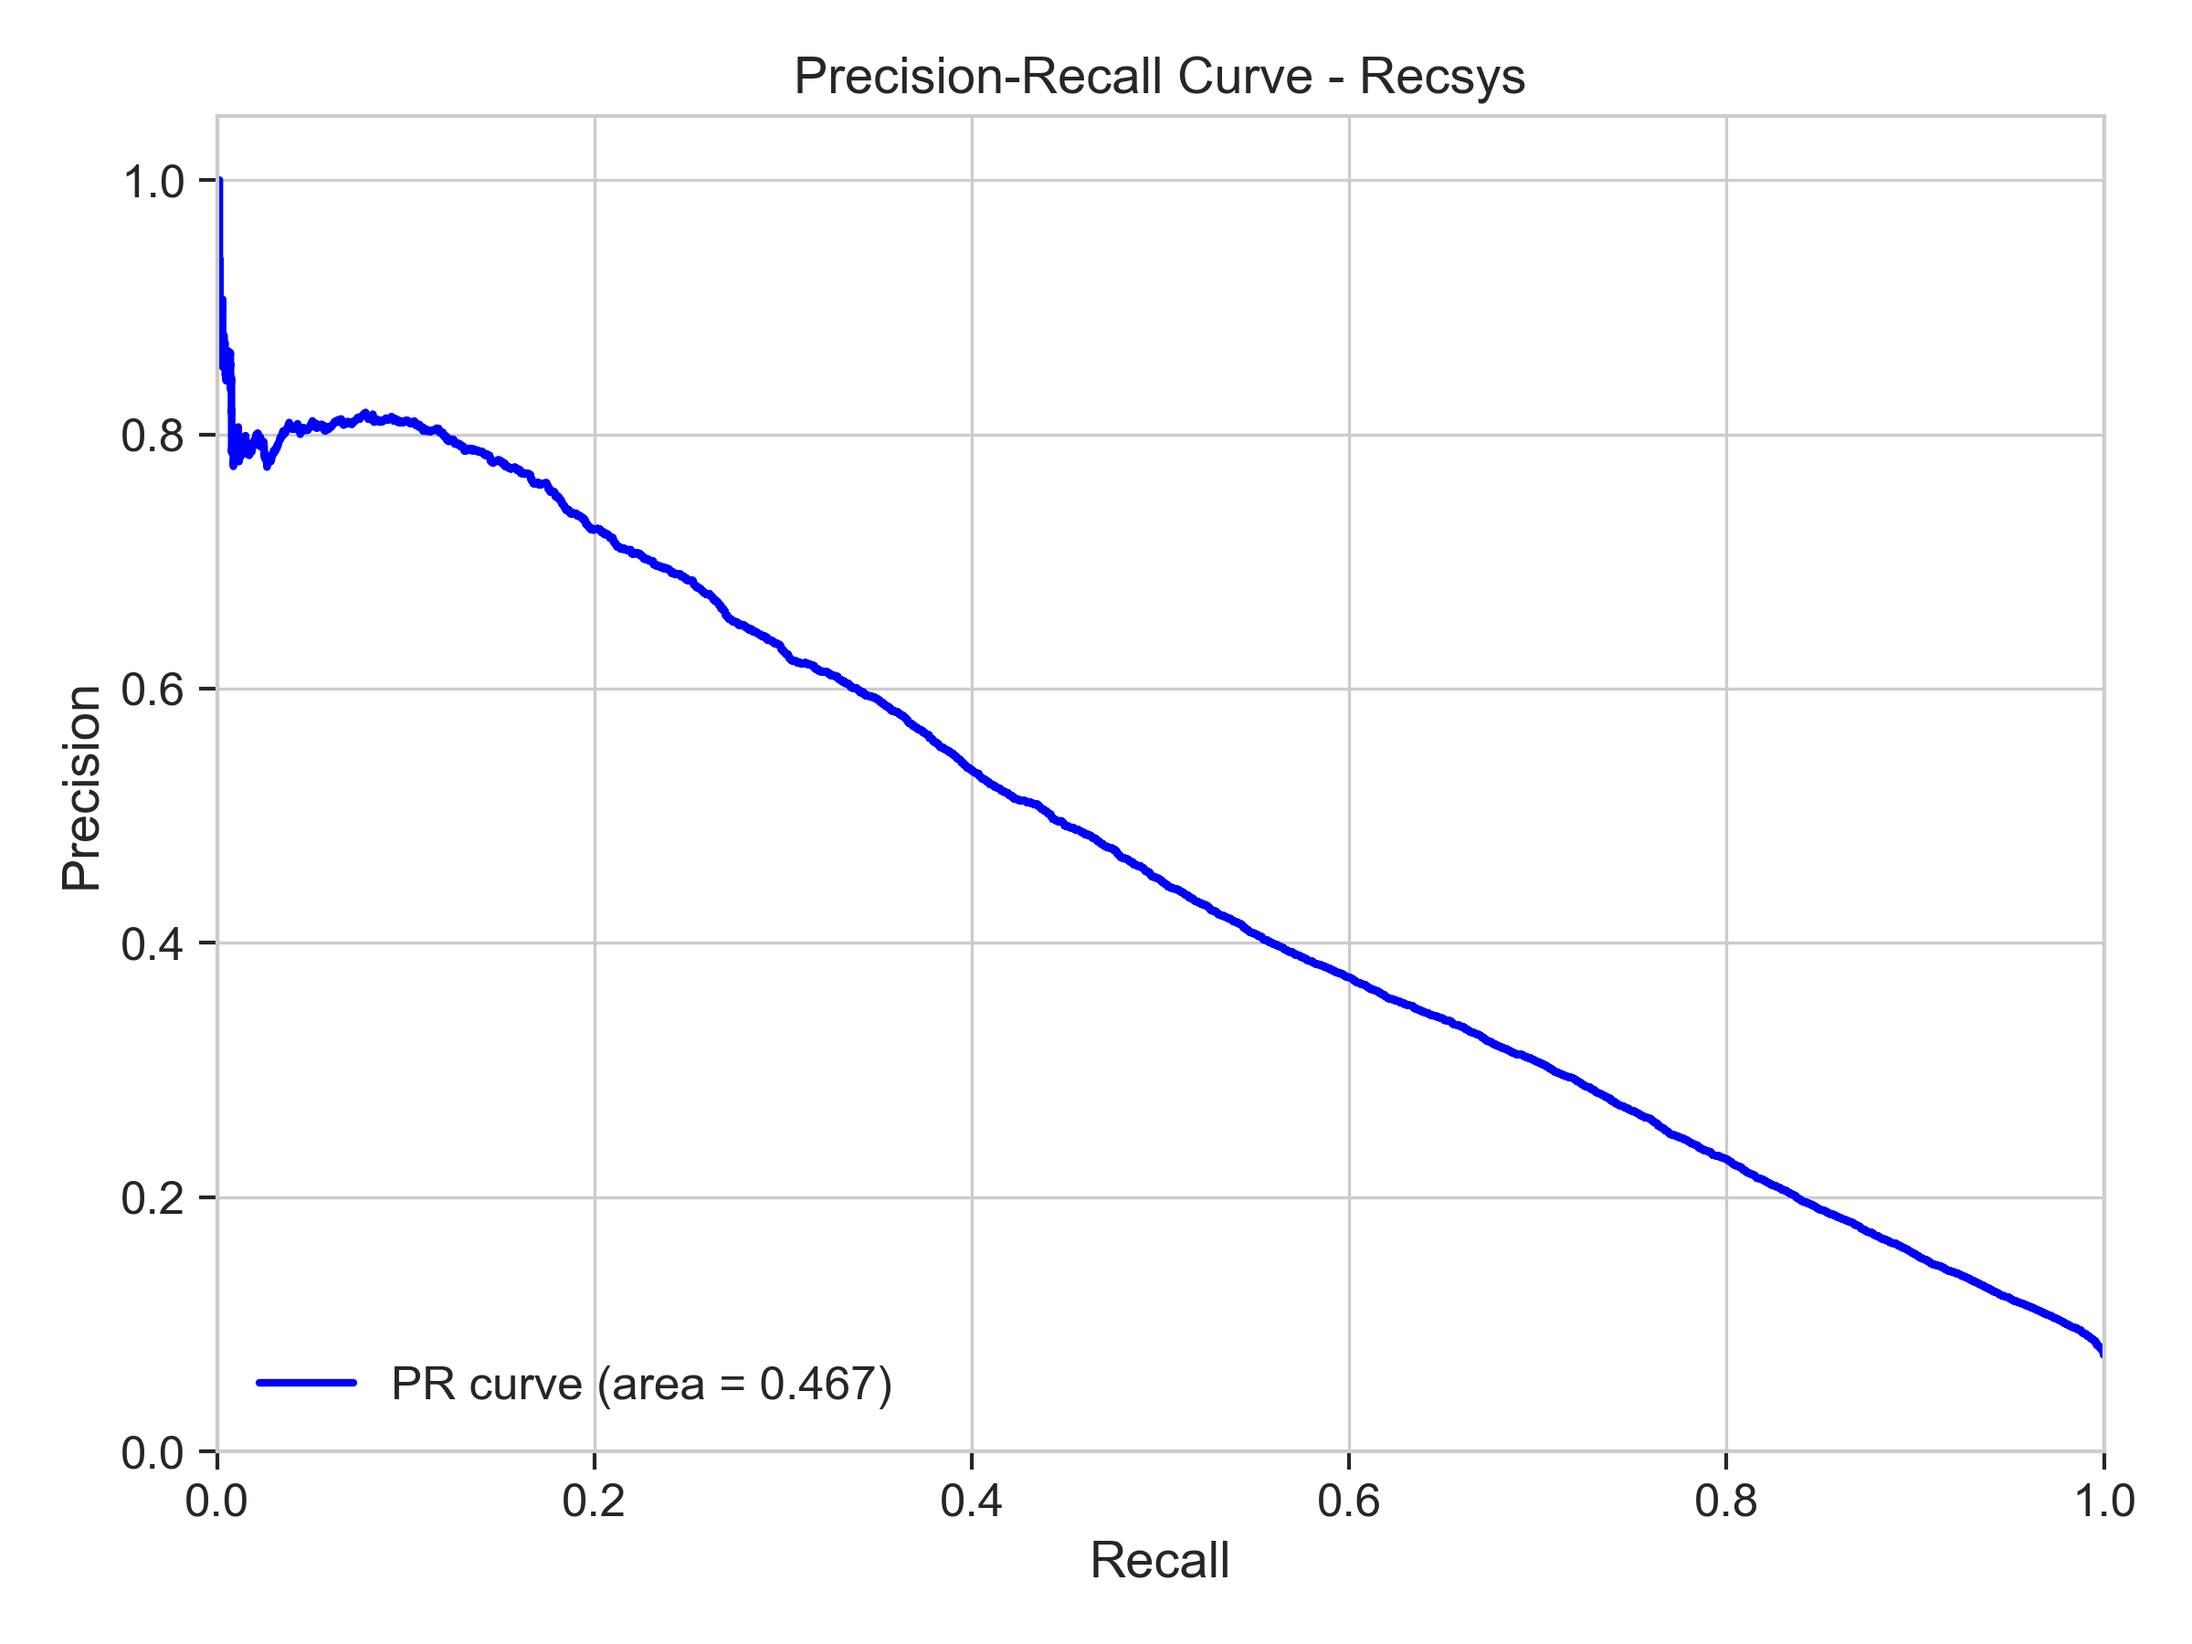
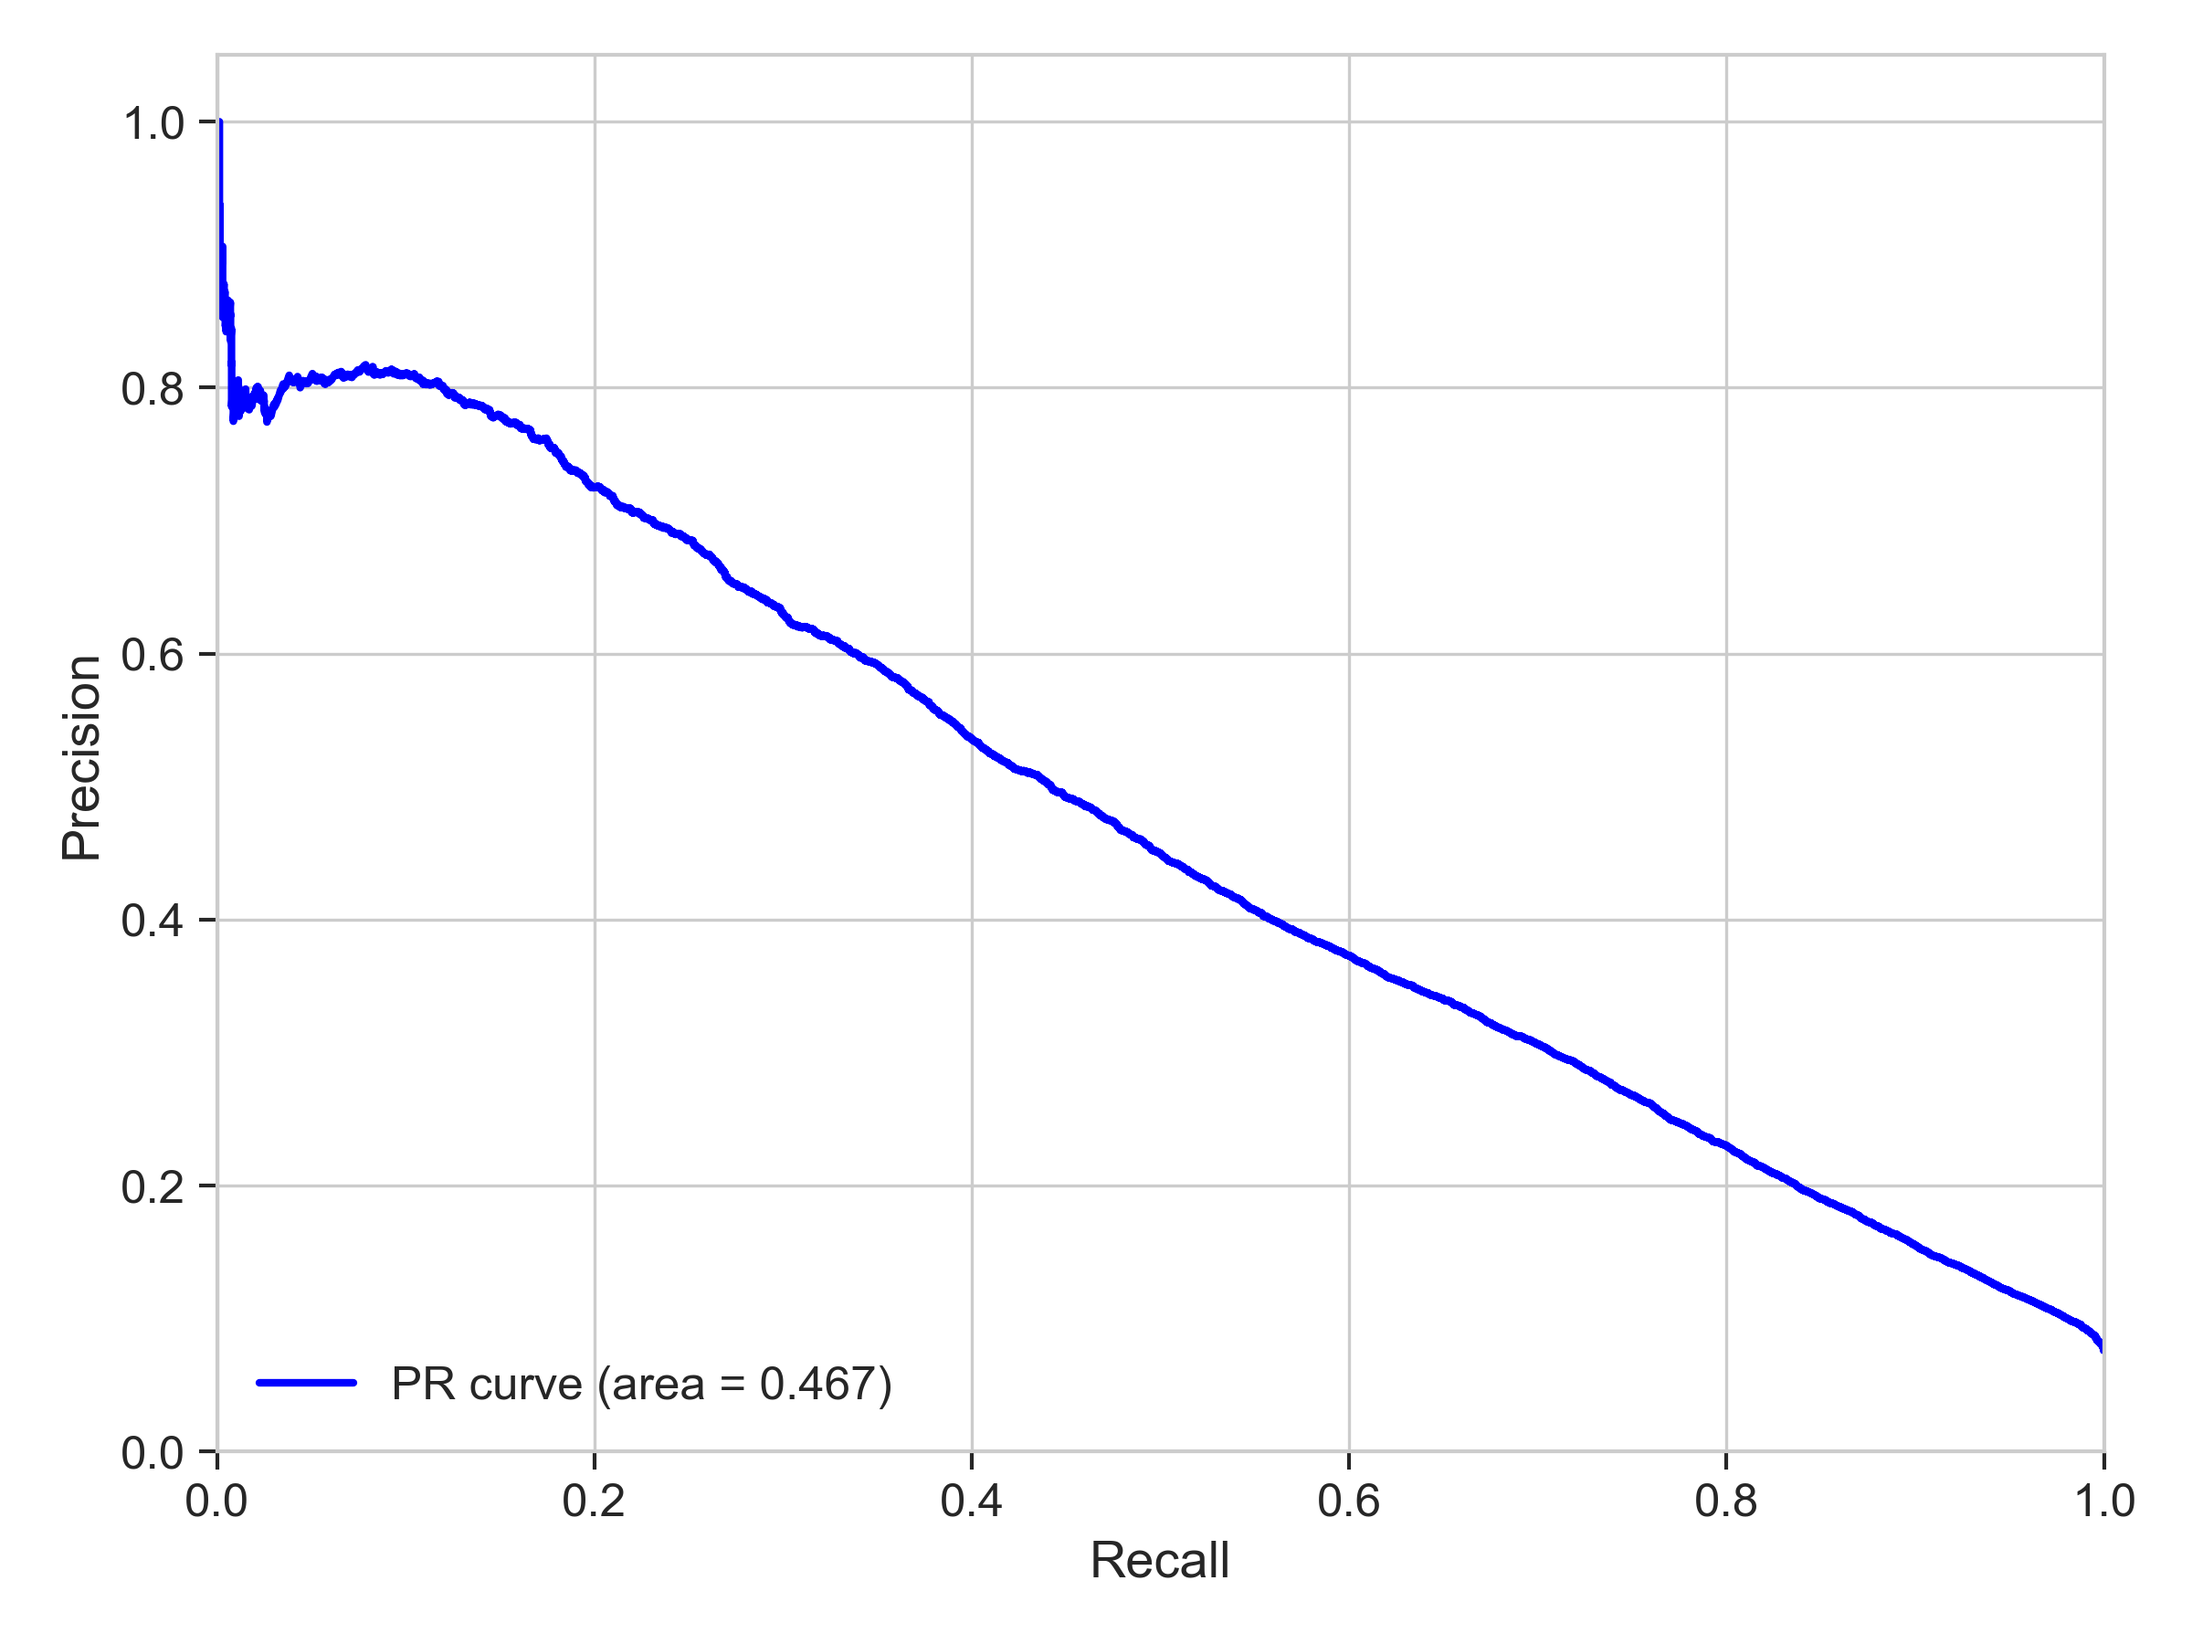
完善

diff --git a/code/jamendo.py b/code/jamendo.py
@@ -23,8 +23,8 @@ class JamendoDataset(Dataset):
         split_dir = self.cfg.data.split_dir
         task = self.cfg.task_name
         #根据task获取前缀
-        if task.lower() == 'autotagging':
-            prefix = "autotagging"
+        if task.lower()=='recsys':
+            prefix="recsys"
         else:
             prefix = f"autotagging_{task}"
         #拼接完整，判断是否存在并加载
@@ -44,13 +44,18 @@ class JamendoDataset(Dataset):
         task = self.cfg.task_name.lower()
         filtered_tags = []
 
-        if task == 'top50tags':
+        if task == 'top50tag':
             target_path = self.cfg.data.tag_list_50_path
             if not os.path.exists(target_path):
                 raise FileNotFoundError(f"Top50 标签文件未找到: {target_path}")
             filtered_tags = np.load(target_path)
+        elif task == 'recsys':
+            target_path = self.cfg.data.tag_list_recsys_path
+            if not os.path.exists(target_path):
+                raise FileNotFoundError(f"recsys 标签文件未找到: {target_path}")
+            filtered_tags = np.load(target_path)
         else:
-            # 只有不是 Top50 时，才需要加载这个大文件
+            # 只有不是 Top50Tag和recsys 时，才需要加载这个大文件
             all_tags = np.load(tag_path)
             #根据不同任务获取不同标签
             if task == 'genre':
@@ -60,7 +65,6 @@ class JamendoDataset(Dataset):
             elif task == 'moodtheme':
                 filtered_tags = [t for t in all_tags if t.startswith('mood/theme---')]
             else:
-                #autotagging
                 filtered_tags = all_tags
         #print(f"   [Tag Info] Task: {task} | Loaded {len(filtered_tags)} tags.")
         return {tag: i for i, tag in enumerate(filtered_tags)}

diff --git a/code/visual.py b/code/visual.py
@@ -48,7 +48,7 @@ def plot_individual_roc_and_pr(
     plt.ylim([0.0, 1.05])
     plt.xlabel('False Positive Rate')
     plt.ylabel('True Positive Rate')
-    plt.title(f'ROC Curve - {task_name}')
+    # plt.title(f'ROC Curve - {task_name}')
     plt.legend(loc="lower right")
     plt.tight_layout()
     plt.savefig(os.path.join(save_dir, f"{task_name}{INDIVIDUAL_ROC_SUFFIX}"), dpi=DPI)
@@ -61,7 +61,7 @@ def plot_individual_roc_and_pr(
     plt.plot(recall, precision, color='blue', lw=2, label=f'PR curve (area = {pr_auc:.3f})')
     plt.xlabel('Recall')
     plt.ylabel('Precision')
-    plt.title(f'Precision-Recall Curve - {task_name}')
+    # plt.title(f'Precision-Recall Curve - {task_name}')
     plt.legend(loc="lower left")
     plt.xlim([0.0, 1.0])
     plt.ylim([0.0, 1.05])
@@ -102,7 +102,7 @@ def plot_combined_roc_and_pr(
     plt.ylim([0.0, 1.05])
     plt.xlabel('False Positive Rate')
     plt.ylabel('True Positive Rate')
-    plt.title('Performance Comparison (ROC Curves)')
+    # plt.title('Performance Comparison (ROC Curves)')
     plt.legend(loc="lower right")
     plt.tight_layout()
     plt.savefig(os.path.join(save_root, COMBINED_ROC_FILENAME), dpi=DPI)
@@ -120,7 +120,7 @@ def plot_combined_roc_and_pr(
     plt.ylim([0.0, 1.05])
     plt.xlabel('Recall')
     plt.ylabel('Precision')
-    plt.title('Performance Comparison (Precision-Recall Curves)')
+    # plt.title('Performance Comparison (Precision-Recall Curves)')
     plt.legend(loc="lower left")
     plt.tight_layout()
     plt.savefig(os.path.join(save_root, COMBINED_PR_FILENAME), dpi=DPI)

diff --git a/code/train.py b/code/train.py
@@ -21,7 +21,6 @@ torch.set_float32_matmul_precision('medium')
 #
 from data_loader import MTGJamendoDataModule
 from trainer.linear_trainer import MTGJamendoTrainer as LinearTrainer
-from src2.add.gcn_trainer import MTGJamendoTrainer as GCNTrainer
 
 
 def setup_callbacks(cfg: DictConfig):
@@ -73,8 +72,6 @@ def main(cfg: DictConfig):
     #==========动态选择 Trainer==========
     if cfg.model_type.lower() == "linear":
         model_system = LinearTrainer(cfg, num_classes)
-    elif cfg.model_type.lower() == "gcn":
-        model_system = GCNTrainer(cfg, num_classes)
     else:
         raise ValueError(f"Unknown model_type: {cfg.model_type}. Supported: [linear, gcn]")
     # =================================

diff --git a/code/run_all.py b/code/run_all.py
@@ -4,7 +4,7 @@ import time
 
 
 def run_tasks():
-    tasks = ["Genre", "Instrument", "MoodTheme", "Top50tags", "Autotagging"]
+    tasks = [ "Genre", "Instrument", "MoodTheme","Top50tags", "AllTag"]
     model_type = "Linear"
     # 记录开始时间
     total_start_time = time.time()
